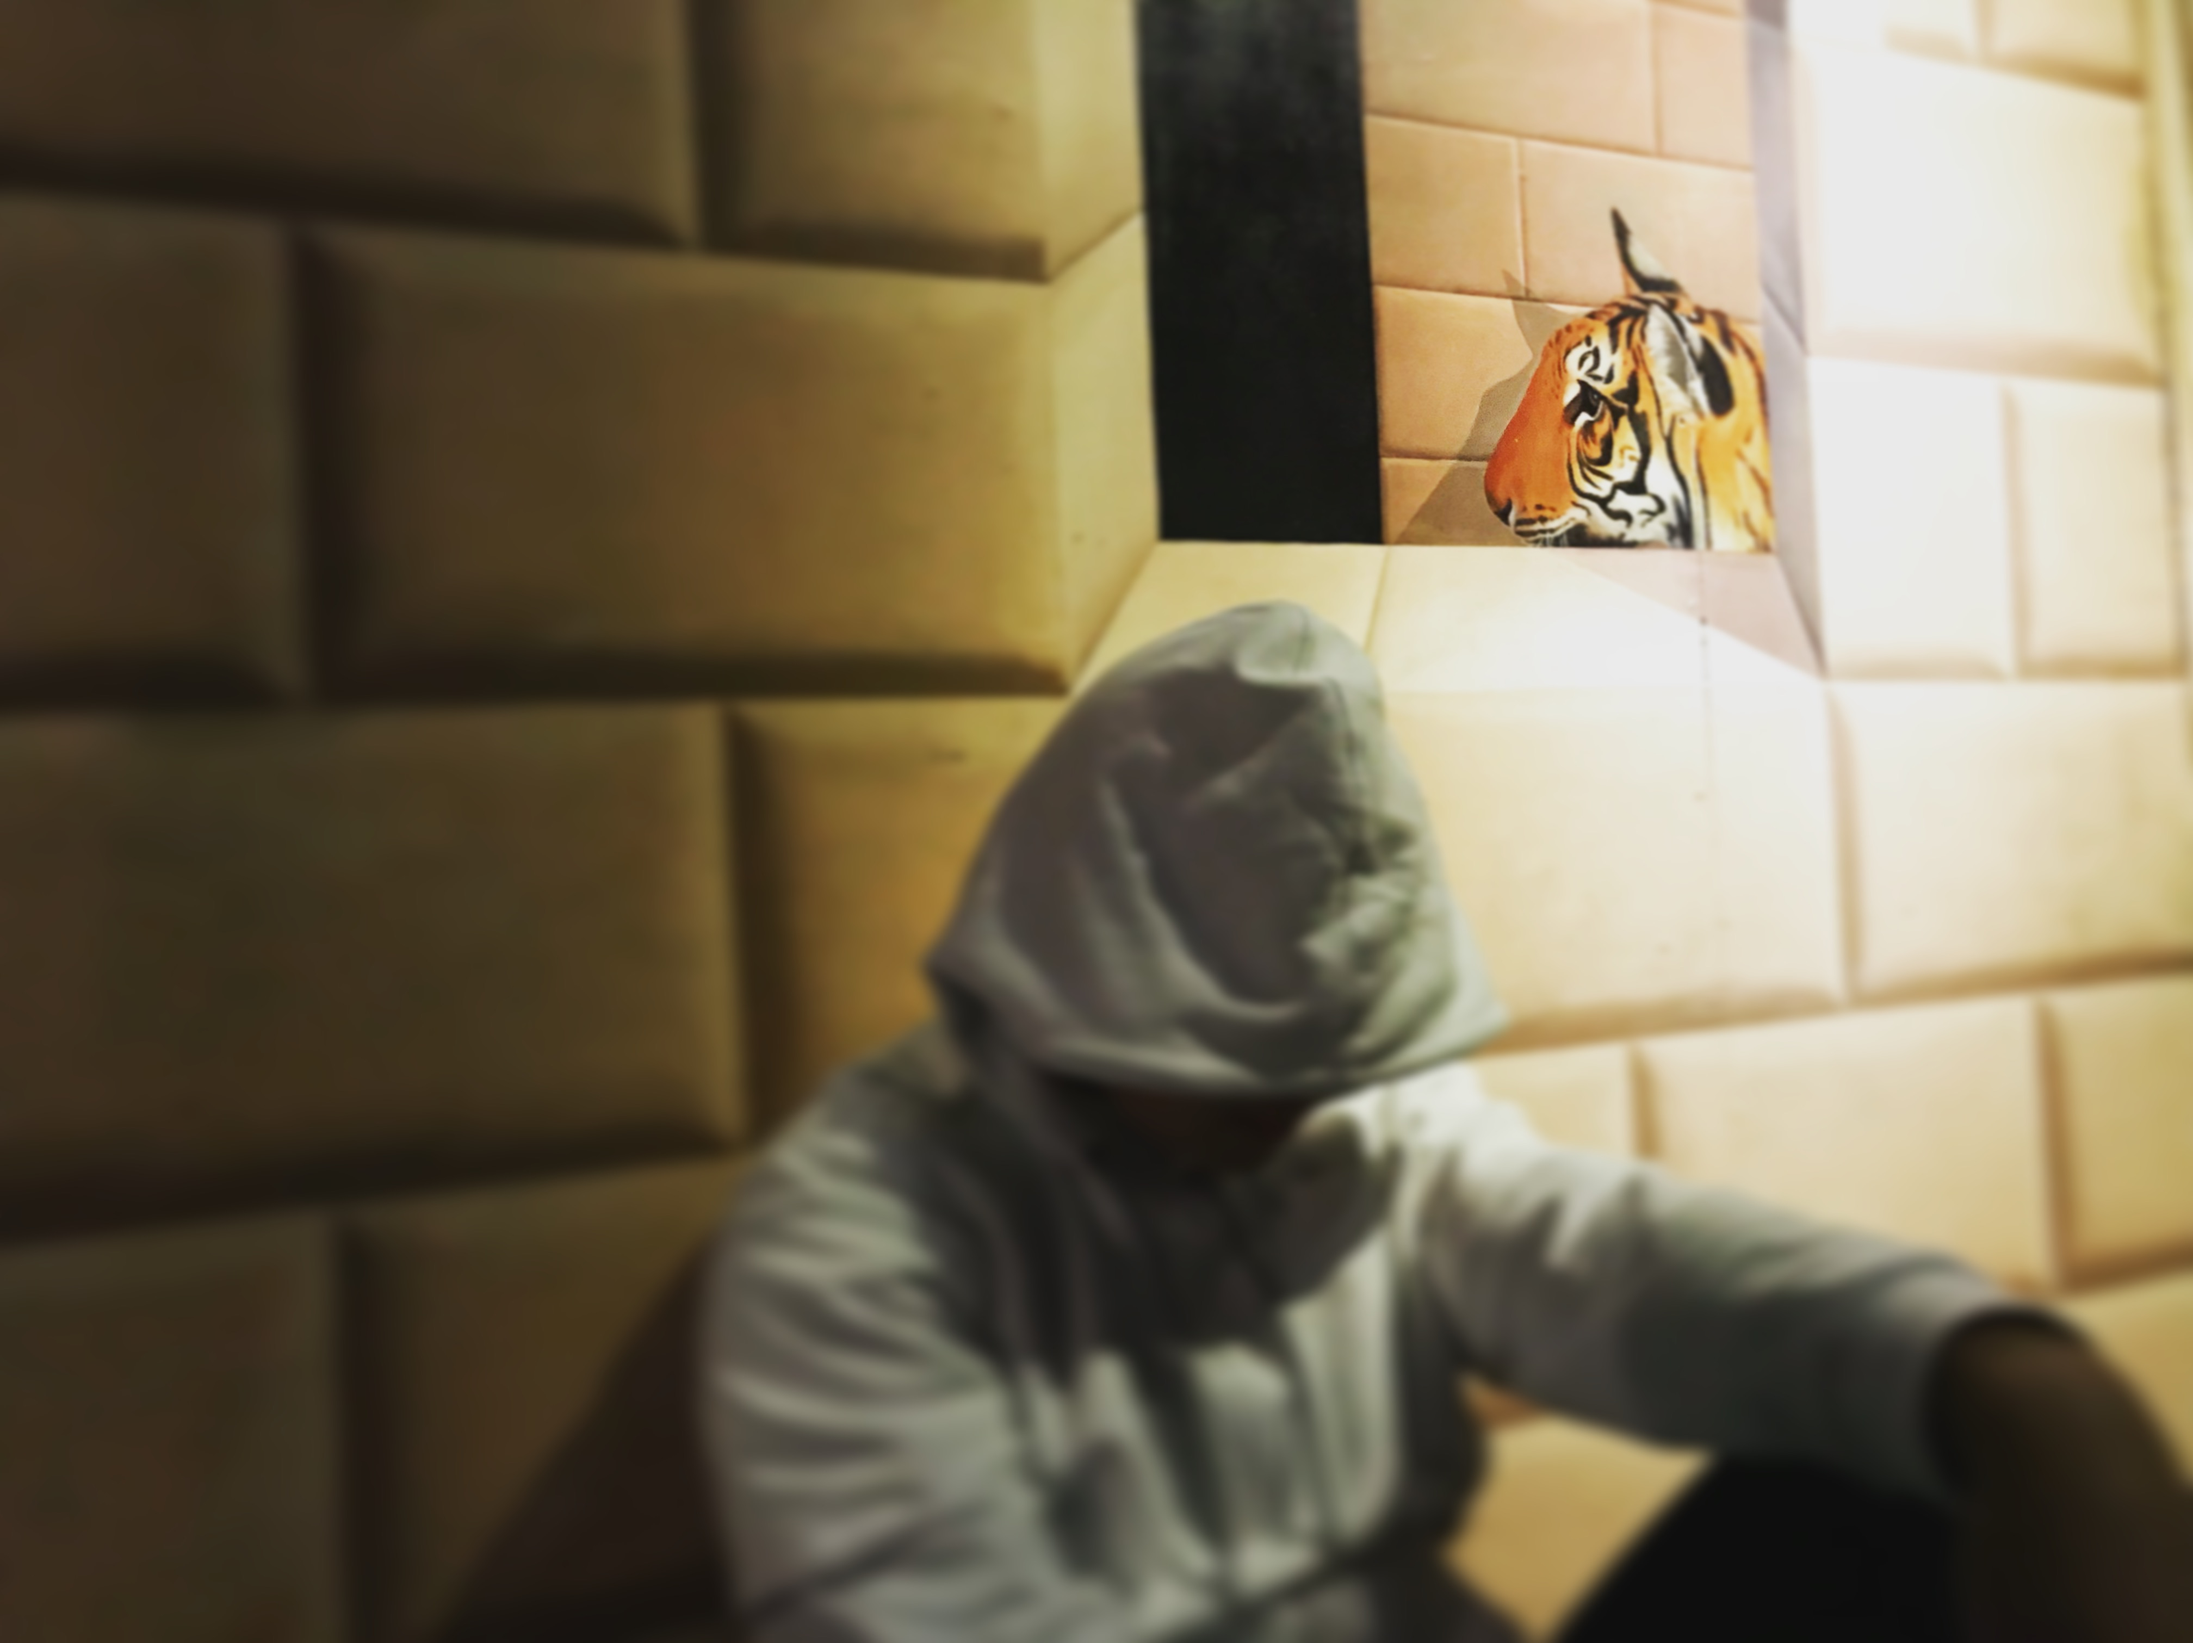
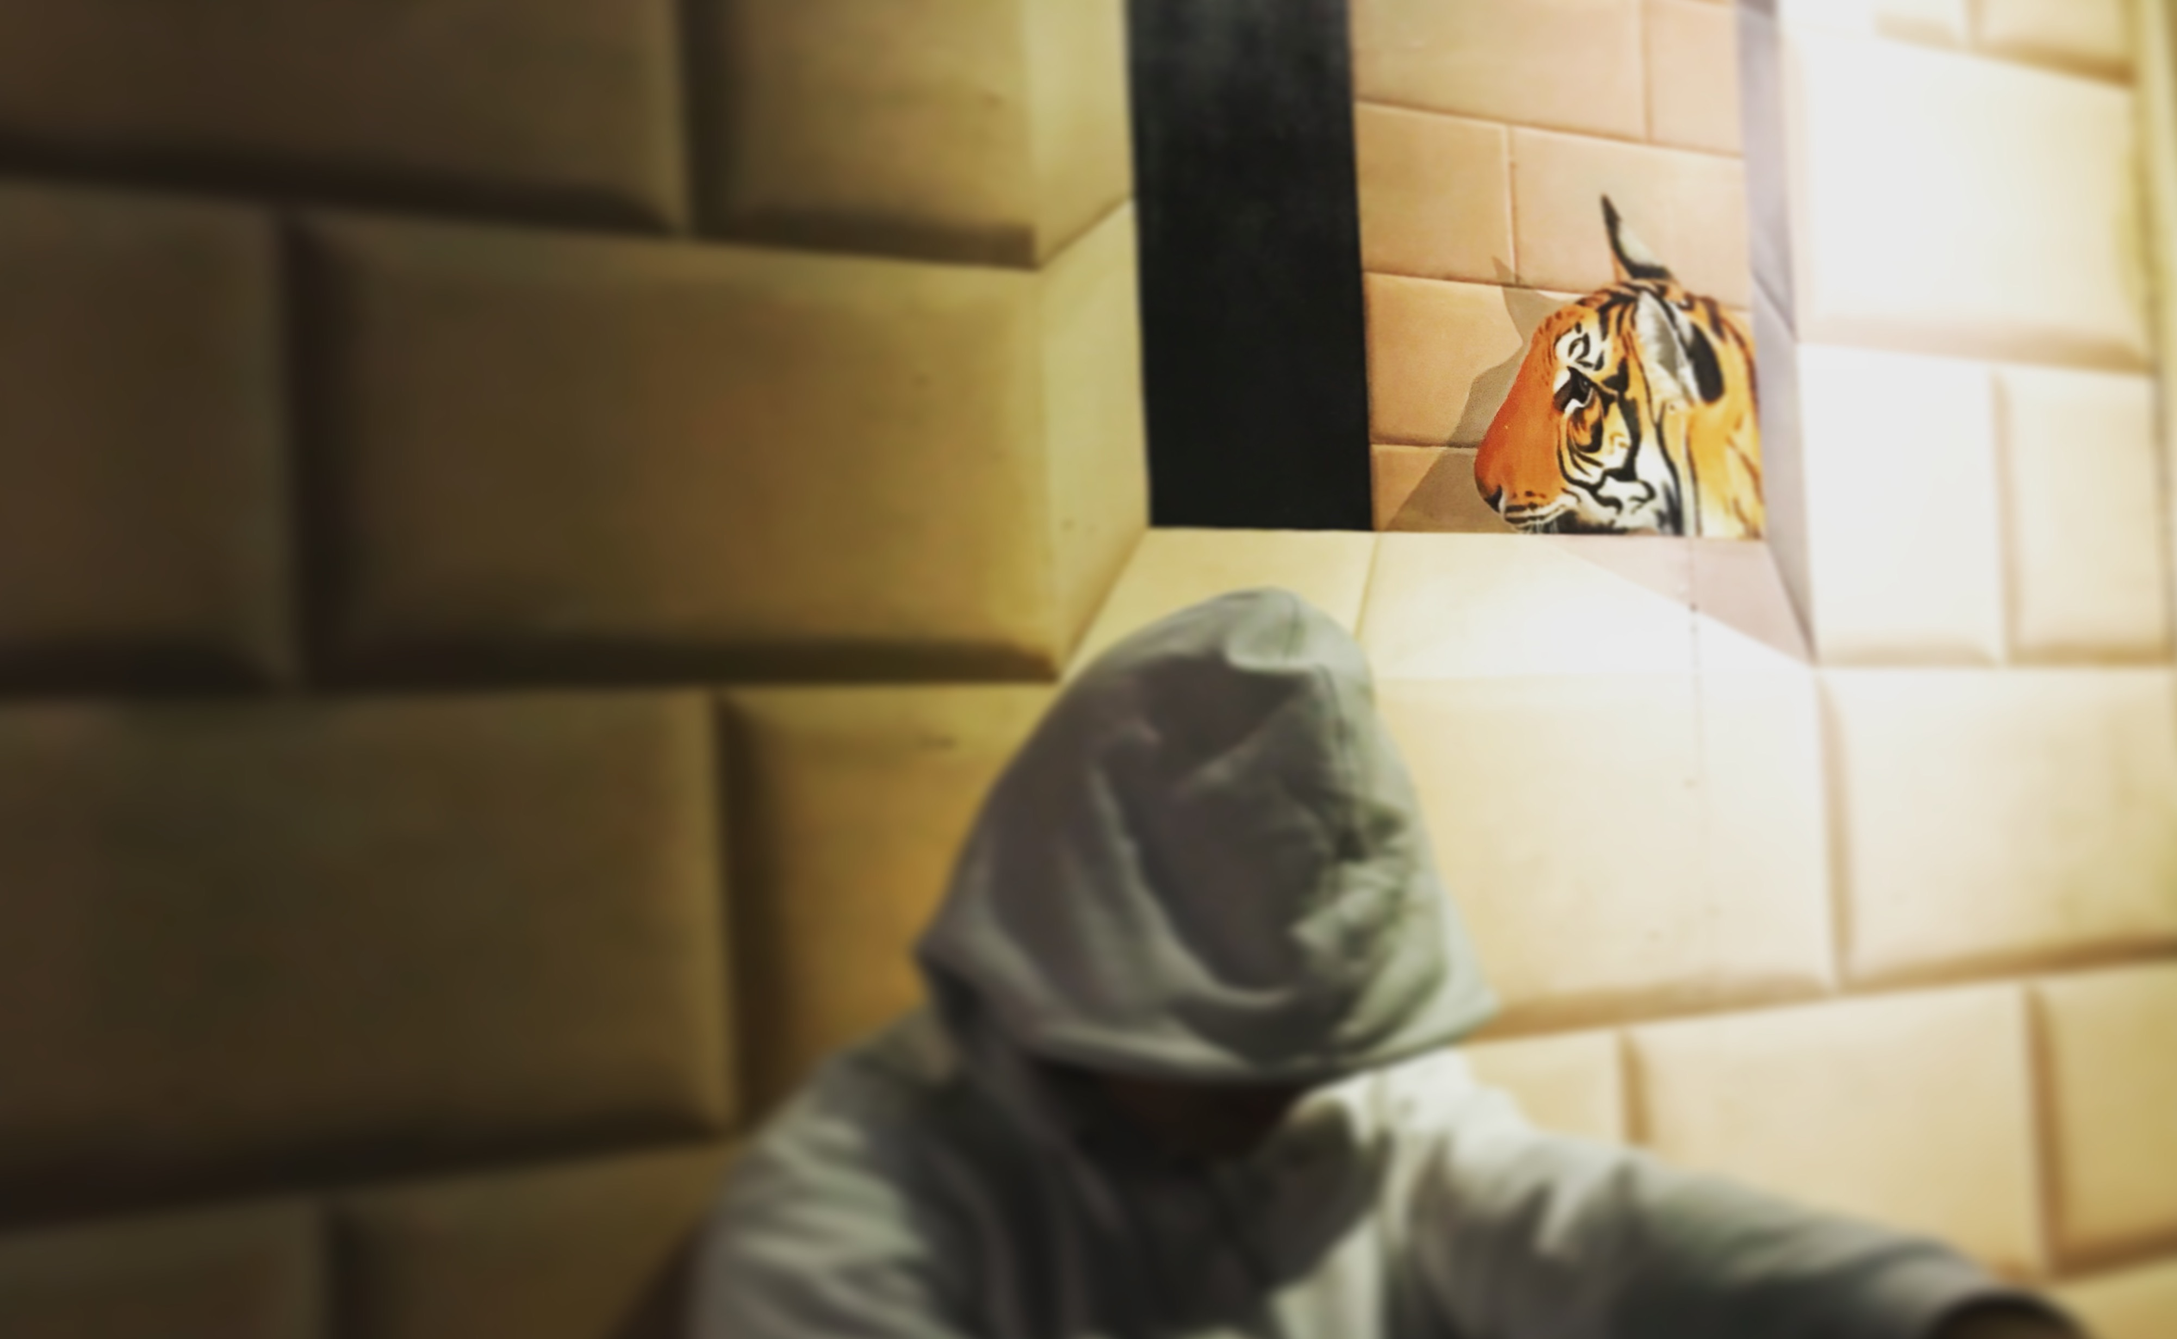
adjust photo screen resize

diff --git a/src/pages/profilePage.js b/src/pages/profilePage.js
@@ -8,12 +8,9 @@ import './profilePage.css';
 class ProfilePage extends React.Component{
     render(){
         return(
-        <div class = "profilePage">
+        <div class = "profilePage" style={ { 'background-image':'url('+hrh+')'}}>
             <NavigationBar />
-            <div className="photo">
-                <Photo src = {hrh}>
-                </Photo>
-            </div>
+            
             <div className = "title">
                 <h2>
                     Explore The New World

diff --git a/src/components/Navigation.js b/src/components/Navigation.js
@@ -11,7 +11,7 @@ class Navigation extends React.Component{
             <div className = {this.props.isHorizontal ==="true"?"Nav horizontal":"Nav"}>
                 <ul>
                 <li><Link to="/profile">Profile</Link></li>
-                <li><Link to="/home">Gallary</Link></li>
+                <li><Link to="/home">Gallery</Link></li>
                 <li><Link to="/music">Music</Link></li>
                 </ul>
             </div>

diff --git a/src/pages/profilePage.css b/src/pages/profilePage.css
@@ -1,5 +1,20 @@
 .profilePage{
-    position: relative;
+    position: absolute;
+    width:100%;
+    height:100%;
+    background-size: 100% 100%;
+    background-repeat: no-repeat;
+}
+
+@media screen and (max-height:700px){
+    .profilePage{
+        background-size:100% 1000px;
+    }
+}
+@media screen and (max-width:1000px){
+    .profilePage{
+        background-size:1000px 100%;
+    }
 }
 .profilePage .photo{
     position: absolute;

diff --git a/src/container/NavigationBar.css b/src/container/NavigationBar.css
@@ -16,12 +16,14 @@
     margin-left:3%;
     font-family: Brush Script MT, Brush Script Std, cursive;
     text-align: center;
+    vertical-align: middle;
     color:rgb(88, 87, 5);
     transform-origin:center;
     transition: all 0.5s linear;
     opacity:1;
-    margin-top:1%;
     text-decoration: none;
+    display: flex;
+    align-items: center
 }
 
 .container-NavBar .nav{

diff --git a/src/components/Photo.css b/src/components/Photo.css
@@ -2,11 +2,16 @@
     margin: auto;
     width:100%;
     height:100%;
+    max-height:screen;
     border-color: red;
     clear:both;
     text-align: center;
 }
-
+@media screen and (min-height:700px) { 
+    #photo{
+        height:700;
+    }
+}
 #photo img{
     width:100%;
     height:100%;

diff --git a/src/pages/homePage.js b/src/pages/homePage.js
@@ -8,7 +8,7 @@ import NavigationBar from './../container/NavigationBar';
 class HomePage extends React.Component{
     render(){
         return(
-        <div className = "homePage">
+        <div className = "homePage" >
 
             <NavigationBar />
 
